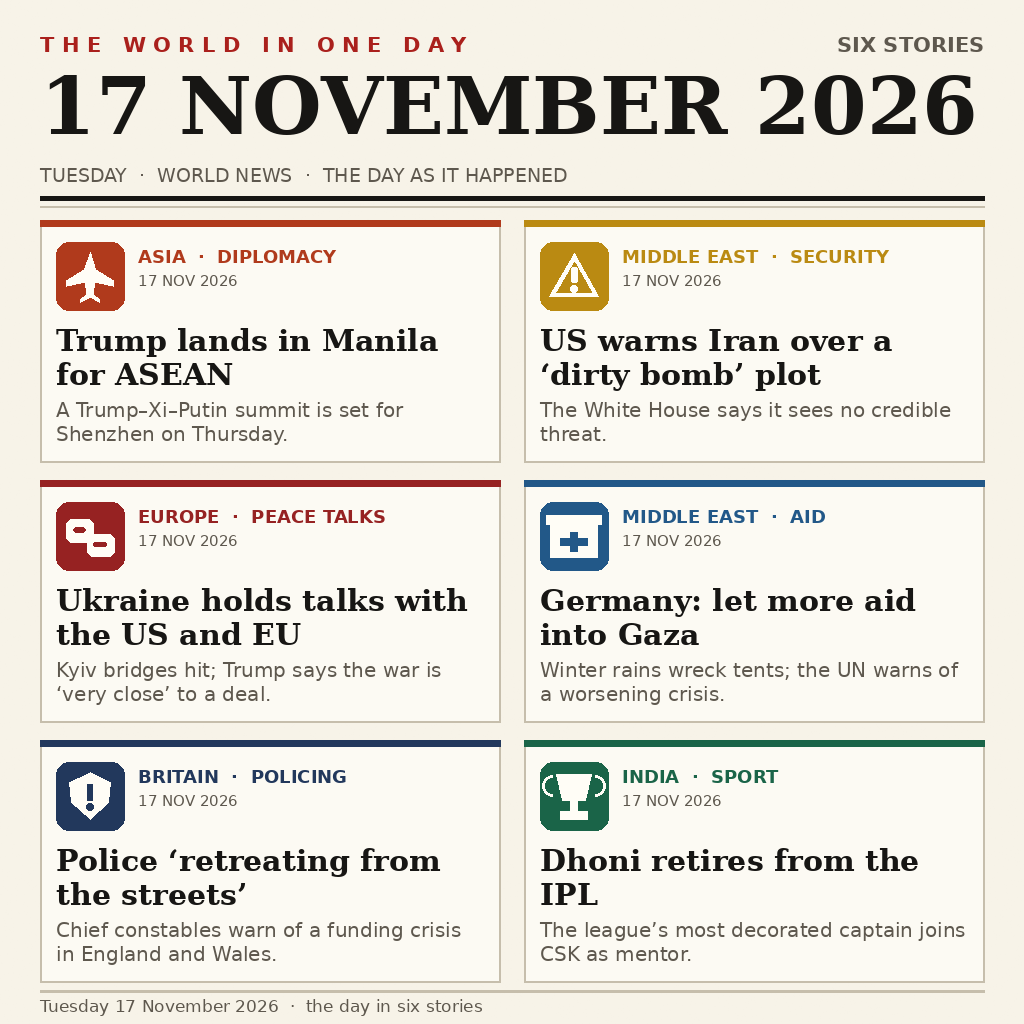
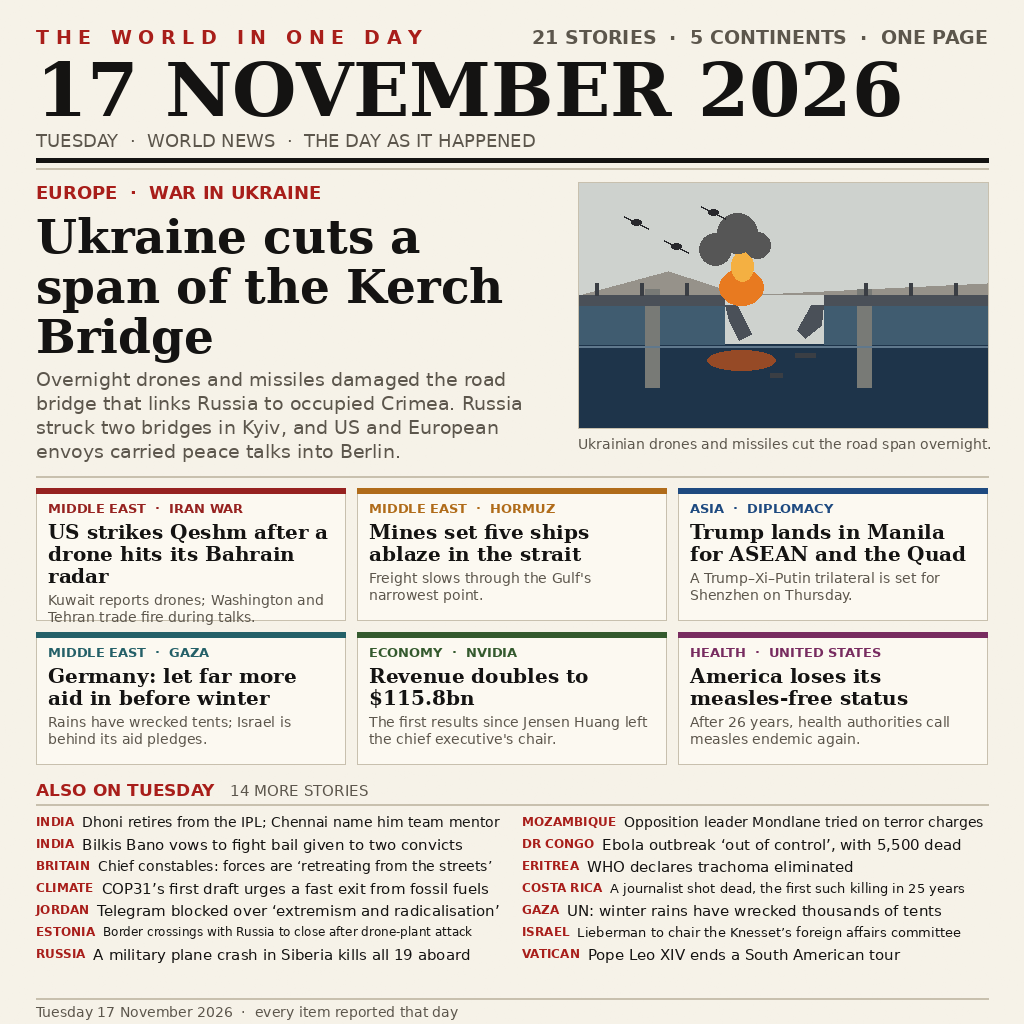
front page: lead Kerch Bridge story, six developed stories, fourteen briefs (21 stories)

diff --git a/README.md b/README.md
@@ -1,4 +1,4 @@
-# 17 November 2026 — the day in six stories
+# 17 November 2026 — the world in one day
 
 [![make.fun · news-image-20261117](https://make.fun/badge/news-image-20261117.svg)](https://make.fun/bounty/news-image-20261117?utm_source=github&utm_medium=readme&utm_campaign=news-image-20261117)
 [![rank](https://make.fun/badge/news-image-20261117/SAHUN17/makefun-news-1117/rank.svg)](https://make.fun/bounty/news-image-20261117/leaderboard?utm_source=github&utm_medium=readme&utm_campaign=news-image-20261117)
@@ -7,22 +7,35 @@
 An entry for [make.fun's daily world-news image bounty](https://make.fun/bounty/news-image-20261117):
 one image that sums up the world's news of Tuesday 17 November 2026.
 
-`entry.png` is a 1024×1024 front page drawn from the day's reporting — six stories,
-each with a region and a beat, each legible on its own:
+`entry.png` is a 1024×1024 front page holding **21 stories from five continents**: a lead
+story with a drawn illustration, six developed stories, and fourteen one-line briefs.
+
+## The day, as the page sets it
+
+**Lead — Europe, war in Ukraine.** Ukrainian drones and missiles cut a road span of the
+Kerch Bridge, the crossing between Russia and occupied Crimea; Russia struck two bridges
+in Kyiv, and US and European envoys carried the peace talks into Berlin.
+
+**Six developed stories**
 
 | Region | Beat | Story |
 |---|---|---|
-| Asia | Diplomacy | Trump arrives in Manila for the ASEAN summit; a Trump–Xi–Putin trilateral is set for Shenzhen on Thursday |
-| Middle East | Security | The US warns Iran over an alleged "dirty bomb" plot; the White House says it sees no credible threat |
-| Europe | Peace talks | Ukraine holds talks with the US and European officials; strikes hit two Kyiv bridges |
-| Middle East | Aid | Germany's foreign minister urges Israel to let far more aid into Gaza before the winter rains |
-| Britain | Policing | Chief constables warn forces are "retreating from the streets" under a funding crisis |
-| India | Sport | M. S. Dhoni retires from the IPL and joins Chennai Super Kings as a mentor |
+| Middle East | Iran war | The US struck Qeshm after a drone hit its radar in Bahrain; Kuwait reported drones |
+| Middle East | Hormuz | Mines set at least five ships ablaze in the strait |
+| Asia | Diplomacy | Trump landed in Manila for ASEAN and the Quad; a Trump–Xi–Putin trilateral is set for Shenzhen |
+| Middle East | Gaza | Germany urged Israel to let far more aid in before the winter rains |
+| Economy | Nvidia | Revenue doubled to $115.8bn, the first results since Jensen Huang left the chief executive's chair |
+| Health | United States | After 26 years, America lost its measles-elimination status |
 
-Six beats and five regions, chosen for consequence and spread rather than volume: a war
-and its talks, a security alarm and its official rebuttal, a humanitarian warning, a
-domestic funding crisis and a retirement that ends an era in the world's biggest cricket
-league. Every claim is reported, and nothing is stated as fact beyond the reporting.
+**Fourteen briefs** — Dhoni's IPL retirement and Chennai's mentorship; Bilkis Bano's vow to
+fight the bail given to two convicts; the chief constables' warning that forces are
+"retreating from the streets"; COP31's first draft urging a fast exit from fossil fuels;
+Jordan's block on Telegram; Estonia's border closures after the attack on a drone plant; a
+Siberian military crash that killed 19; Mondlane's terror trial in Mozambique; an Ebola
+outbreak "out of control" in DR Congo; Eritrea's trachoma elimination; a Costa Rican
+journalist shot dead, the first such killing in 25 years; the UN on winter rains wrecking
+tents in Gaza; Lieberman chairing the Knesset's foreign affairs committee; and Pope Leo
+XIV's South American tour.
 
 ## Run it
 
@@ -30,18 +43,18 @@ league. Every claim is reported, and nothing is stated as fact beyond the report
 mkdir -p out && ENTRY_OUTPUT_DIR=out python3 main.py
 ```
 
-`main.py` validates the bundled image against the bounty's gate — PNG by magic bytes,
-at most 1 MiB, at most 1024 pixels on the long side — and copies it to
-`/output/entry.png`. Python 3.13, standard library only, no network, and the same bytes
-on every run.
+`main.py` validates the bundled image against the bounty's gate — a PNG or JPEG by its
+magic bytes, at most 1 MiB, at most 1024 pixels on the long side — copies it to
+`/output/entry.png`, and checks the copy against the source so a truncated write cannot
+pass silently. Python 3.13, standard library only, no network, the same bytes every run.
 
 ## Craft
 
-The poster is composed in Pillow from primitives only: a cream paper with a light grain,
-a masthead carrying the date at 92 px, and six cards, each with a flat pictogram, a
-region-and-beat kicker, a two-line serif headline and a two-line detail. Every label is
-set to fit its card by measuring the rendered text, so nothing runs over a rule or into a
-neighbouring line — the failure mode that makes a news image look like a typo.
+Everything is drawn in Pillow from primitives: cream paper with a light grain, a masthead
+whose date is set at 74 px, a lead package with a hand-drawn bridge — deck, piers, the cut
+span with jagged stubs, fire, smoke and drones — plus a six-card grid and a two-column
+brief list, all measured to fit. No stock art, no image model: every label is set to fit
+its box by measuring the rendered text, so nothing runs over a rule or into its neighbour.
 
 ## Licence
 
